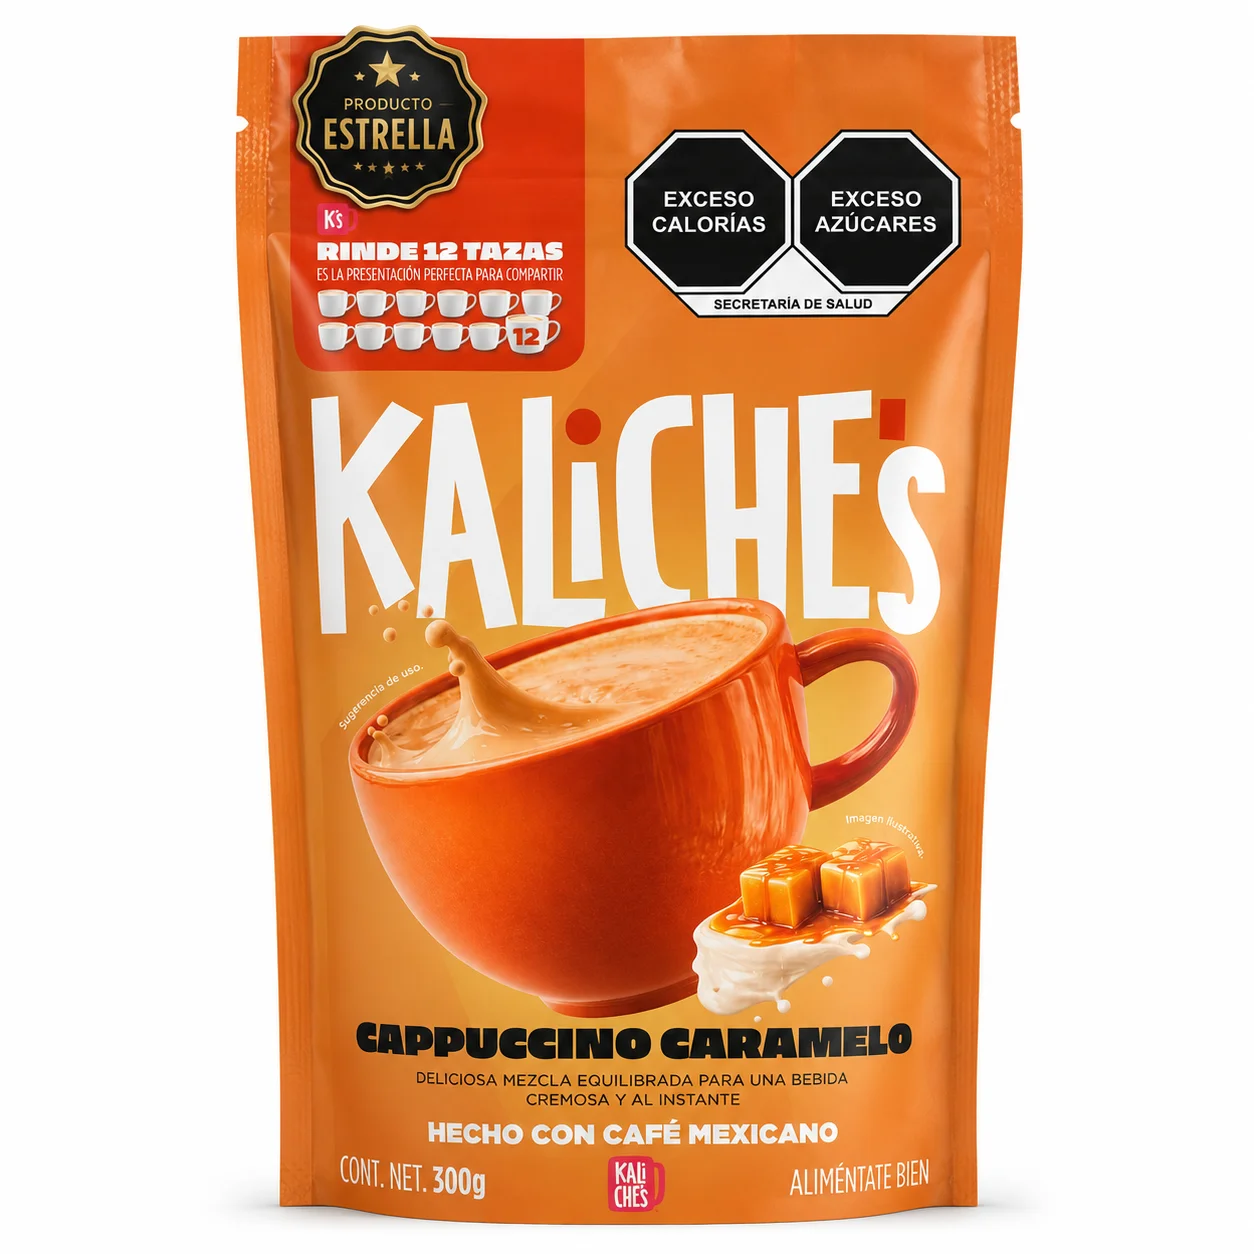
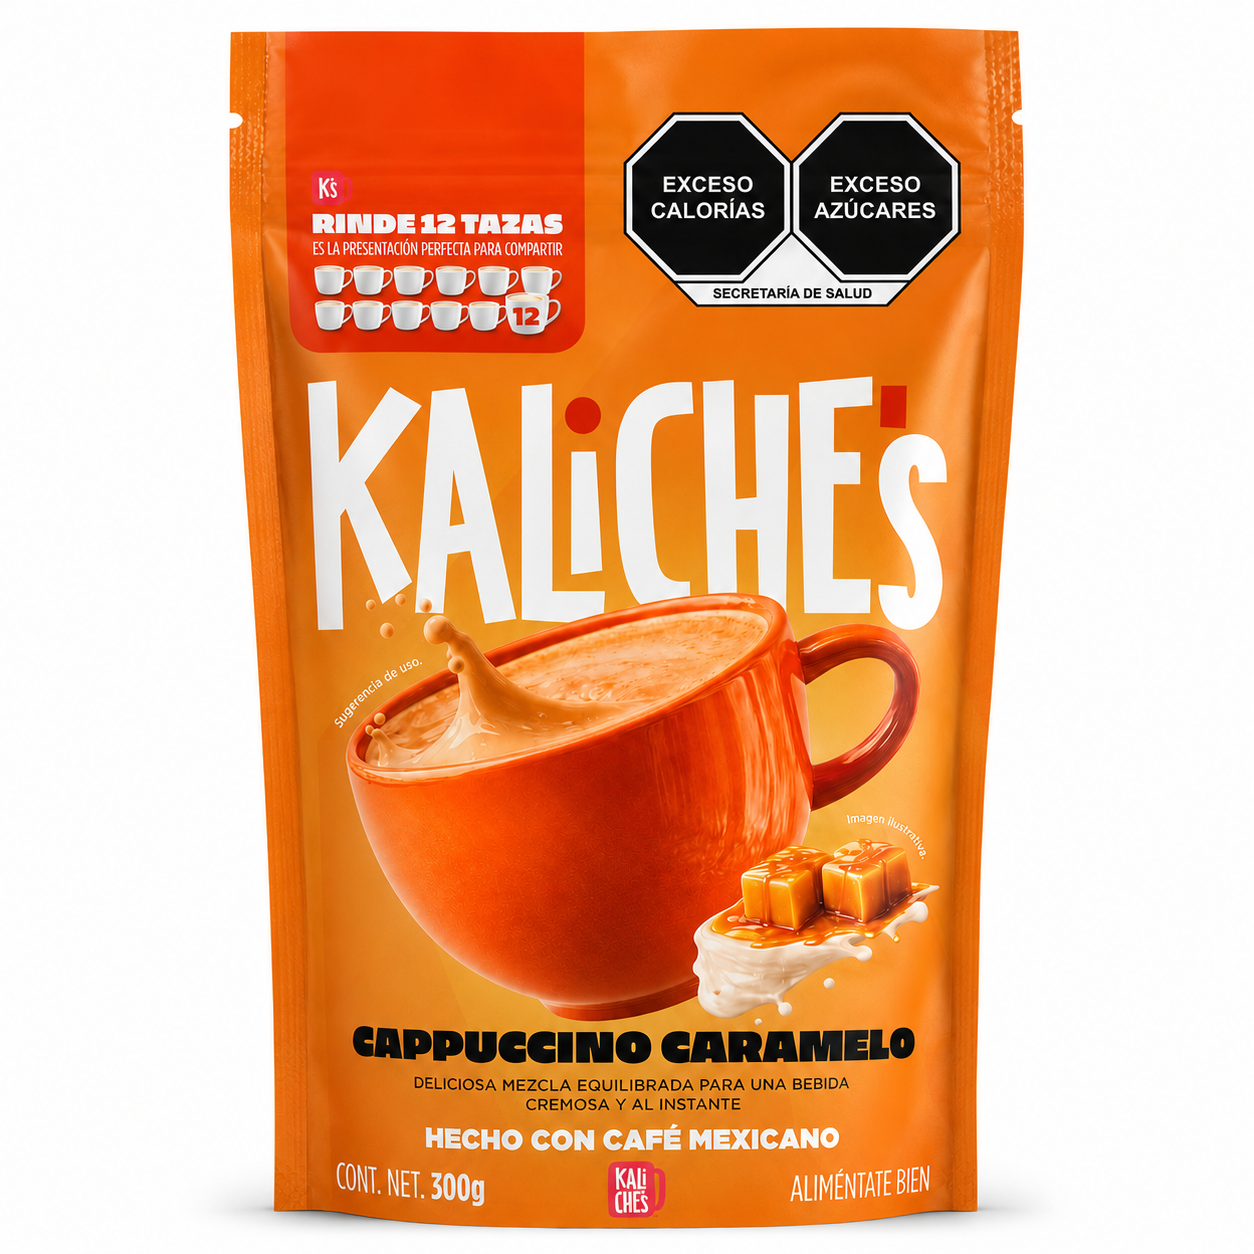
kaliche menu

Changed region(s): [[0.1555, 0.0, 0.8397, 0.9952]]

diff --git a/components/sections/NavbarSection.tsx b/components/sections/NavbarSection.tsx
@@ -1,6 +1,7 @@
 "use client";
 
 import React, { useState, useEffect } from 'react';
+import Link from 'next/link';
 import { siteConfig } from '../../content/site.config';
 import Container from '../ui/Container';
 import Button from '../ui/Button';
@@ -23,6 +24,9 @@ export default function NavbarSection() {
 
   const closeMenu = () => setMenuOpen(false);
 
+  // Links regulares sin el de distribuidores
+  const regularLinks = navigation.items.filter(item => item.href !== '#distribuidores');
+
   return (
     <>
       <header className={`sticky top-0 z-50 w-full bg-white/95 backdrop-blur-md transition-all border-b ${scrolled ? 'border-[#E8E8E8] shadow-sm' : 'border-transparent'}`}>
@@ -30,7 +34,7 @@ export default function NavbarSection() {
           <div className="flex h-20 items-center justify-between gap-4">
 
             {/* Logotipo */}
-            <a href="/" className="flex items-center gap-2 focus:outline-none focus:ring-2 focus:ring-[#E31E24]">
+            <Link href="/" className="flex items-center gap-2 focus:outline-none focus:ring-2 focus:ring-[#E31E24]">
               <img
                 src="/images/logo/icono.png"
                 alt={`Logo de ${brand.name}`}
@@ -39,11 +43,11 @@ export default function NavbarSection() {
               <span className="font-sans font-black text-xl tracking-tighter text-[#0F0F0F] sm:text-2xl">
                 {brand.name}
               </span>
-            </a>
+            </Link>
 
             {/* Navegación Desktop */}
-            <nav className="hidden lg:flex items-center gap-8">
-              {navigation.items.map((item, index) => (
+            <nav className="hidden lg:flex items-center gap-7">
+              {regularLinks.map((item, index) => (
                 <a
                   key={index}
                   href={item.href}
@@ -52,6 +56,13 @@ export default function NavbarSection() {
                   {item.label}
                 </a>
               ))}
+              {/* Botón destacado cafeterías */}
+              <a
+                href="#distribuidores"
+                className="font-sans text-xs uppercase tracking-widest font-bold text-[#E31E24] border border-[#E31E24] px-3 py-1.5 hover:bg-[#E31E24] hover:text-white transition-all duration-200"
+              >
+                Restaurantes y Cafeterías
+              </a>
             </nav>
 
             {/* CTA + Hamburger */}
@@ -112,16 +123,25 @@ export default function NavbarSection() {
 
         {/* Links */}
         <nav className="flex flex-col flex-1 px-6 py-8 gap-1 overflow-y-auto">
-          {navigation.items.map((item, index) => (
+          {regularLinks.map((item, index) => (
             <a
               key={index}
               href={item.href}
               onClick={closeMenu}
-              className="font-sans text-[13px] font-bold uppercase tracking-[0.16em] text-[#1A1A1A] hover:text-[#E31E24] py-4 border-b border-[#F0F0F0] transition-colors duration-150 last:border-b-0"
+              className="font-sans text-[13px] font-bold uppercase tracking-[0.16em] text-[#1A1A1A] hover:text-[#E31E24] py-4 border-b border-[#F0F0F0] transition-colors duration-150"
             >
               {item.label}
             </a>
           ))}
+          {/* Botón destacado cafeterías — móvil */}
+          <a
+            href="#distribuidores"
+            onClick={closeMenu}
+            className="font-sans text-[13px] font-bold uppercase tracking-[0.16em] text-[#E31E24] py-4 border-b border-[#E31E24]/20 transition-colors duration-150 flex items-center gap-2"
+          >
+            <span className="w-1.5 h-1.5 rounded-full bg-[#E31E24] flex-shrink-0" />
+            Restaurantes y Cafeterías
+          </a>
         </nav>
 
         {/* CTA + contacto */}